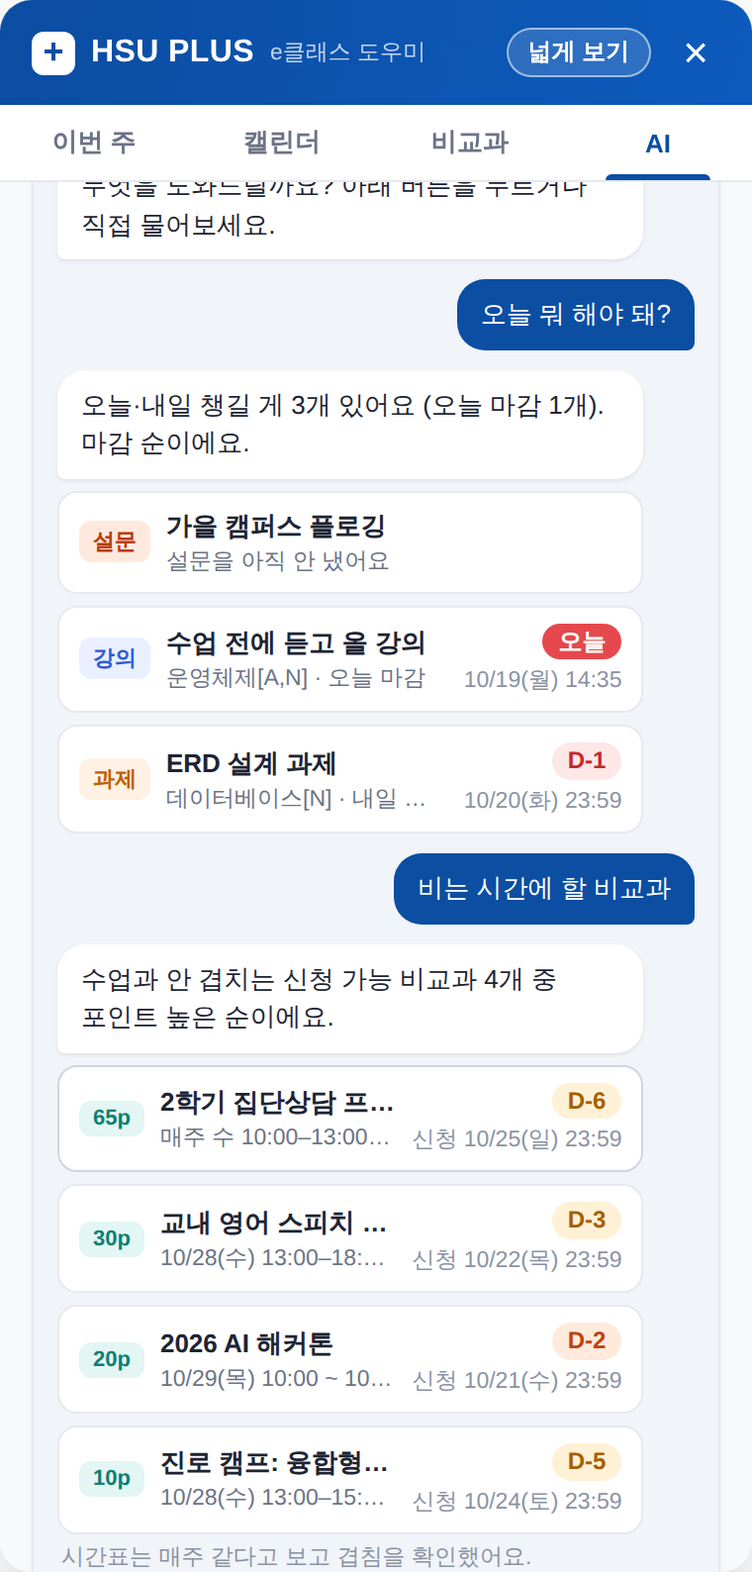
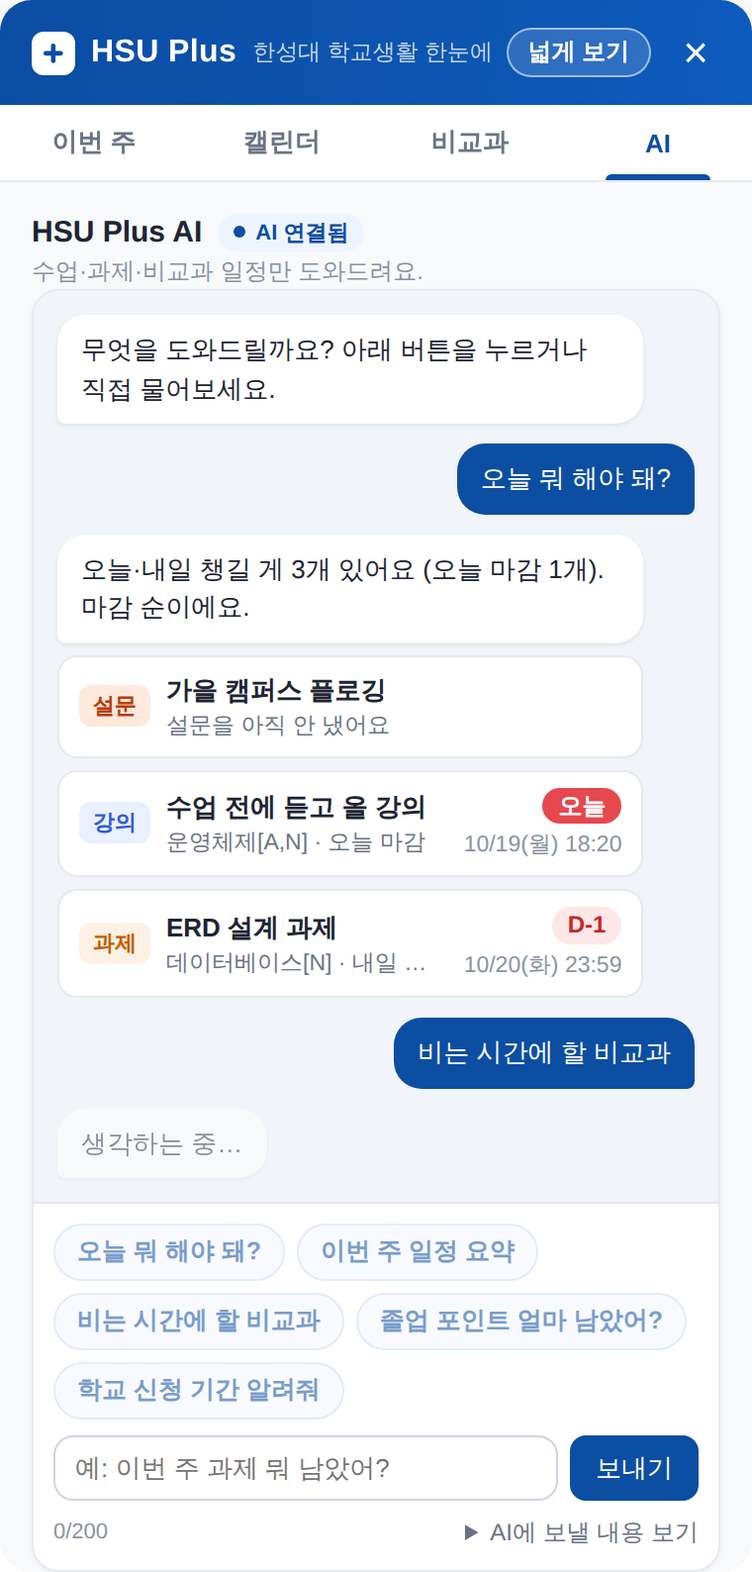
디테일 다듬기: SVG 로고·HSU Plus 머리줄, 캘린더 설명 줄 정리·토일 버튼 위로, 비교과 분류 칩, AI 꼬리표·버튼 답 지연
- 로고 "+"를 SVG로, 머리줄 "HSU Plus · 한성대 학교생활 한눈에", 패널 안 이름 HSU Plus로 통일
- 캘린더: 주간·월간 아래 설명 줄 삭제, 토·일 버튼을 이번 주/다음 주 옆으로(주말 개수 배지), 주간 제목은 날짜만
- 비교과 신청: 빨간 점 삭제, 분류 칩 전체/특강·행사/온라인/과제 제출/프로젝트/상담·개별/장기/기타
- 이번 주 탭 학사 칸: 끄는 스위치·전체 보기 삭제
- AI: 꼬리표만("AI 답변", "AI 답변 · 범위 밖 질문", "기본 답변 · 사유"), 추천 버튼 답은 0.9초 뒤에
- README 그림 8장 새로, DEVLOG

diff --git a/content/main.js b/content/main.js
@@ -21,6 +21,23 @@
   root.appendChild(css);
 
   // 요소 만들기 도우미. 학교 페이지에서 온 글자는 항상 textContent로만 넣는다 (코드 끼워넣기 방지).
+  // 로고 "+": 글자 대신 SVG (글꼴마다 굵기·위치가 달라지지 않게, 10/19 사용자)
+  const SVGNS = "http://www.w3.org/2000/svg";
+  function logoMark(cls = "logo") {
+    const wrap = document.createElement("span");
+    wrap.className = cls;
+    wrap.setAttribute("aria-hidden", "true");
+    const svg = document.createElementNS(SVGNS, "svg");
+    svg.setAttribute("viewBox", "0 0 24 24");
+    svg.setAttribute("focusable", "false");
+    for (const [x, y, w, h] of [[10.25, 4.5, 3.5, 15], [4.5, 10.25, 15, 3.5]]) {
+      const r = document.createElementNS(SVGNS, "rect");
+      for (const [k, v] of Object.entries({ x, y, width: w, height: h, rx: 1.75, fill: "currentColor" })) r.setAttribute(k, v);
+      svg.appendChild(r);
+    }
+    wrap.appendChild(svg);
+    return wrap;
+  }
   const el = (tag, attrs = {}, children = []) => {
     const node = document.createElement(tag);
     for (const [k, v] of Object.entries(attrs)) {
@@ -55,7 +72,7 @@
   function renderDeadNotice() {
     body.replaceChildren(
       el("div", { class: "notice" }, [
-        el("p", { text: "HSU PLUS가 업데이트됐어요." }),
+        el("p", { text: "HSU Plus가 업데이트됐어요." }),
         el("p", { class: "sub", text: "이 페이지를 새로고침하면 다시 동작해요." }),
         el("button", { class: "btn", text: "페이지 새로고침", onclick: () => location.reload() }),
       ])
@@ -120,8 +137,8 @@
   ];
 
   // 디자인: 10/20 시안 A(또렷하게) 선택 — 지금 구조 그대로, 머리줄 로고·그라데이션, 둥근 탭 밑줄, e클래스 바탕 회색
-  const launcher = el("button", { class: "launcher", title: "HSU PLUS 열기" }, [el("span", { class: "logo", text: "+" })]);
-  const panel = el("section", { class: "panel hidden", "aria-label": "HSU PLUS" });
+  const launcher = el("button", { class: "launcher", title: "HSU Plus 열기", "aria-label": "HSU Plus 열기" }, [logoMark()]);
+  const panel = el("section", { class: "panel hidden", "aria-label": "HSU Plus" });
   // 넓게 보기: 어느 탭에서든 쓸 수 있게 파란 머리줄에 둔다
   const wideBtn = el("button", {
     class: "wide-toggle",
@@ -133,7 +150,7 @@
     },
   });
   const header = el("header", {}, [
-    el("div", { class: "brand" }, [el("span", { class: "logo", "aria-hidden": "true", text: "+" }), el("strong", { text: "HSU PLUS" }), el("span", { class: "brand-sub", text: "e클래스 도우미" })]),
+    el("div", { class: "brand" }, [logoMark(), el("strong", { text: "HSU Plus" }), el("span", { class: "brand-sub", text: "한성대 학교생활 한눈에" })]),
     el("div", { class: "head-actions" }, [wideBtn, el("button", { class: "close", text: "×", title: "닫기", onclick: () => toggle(false) })]),
   ]);
   const tabBar = el("nav", { class: "tabs" });
@@ -563,7 +580,7 @@
     const missing = known.filter((r) => r.loggedIn === false).length + (conn && !conn.eclass ? 1 : 0);
     const tip = (t, d) => el("li", {}, [el("b", { text: t }), el("span", { text: d })]);
     return el("div", { class: "welcome" }, [
-      el("div", { class: "wl-head" }, [el("span", { class: "logo", text: "+" }), el("div", {}, [el("b", { text: "HSU PLUS를 시작해요" }), el("p", { text: "e클래스·비교과·종합정보에 흩어진 할 일과 일정을 여기서 한 번에 봐요." })])]),
+      el("div", { class: "wl-head" }, [logoMark(), el("div", {}, [el("b", { text: "HSU Plus를 시작해요" }), el("p", { text: "e클래스·비교과·종합정보에 흩어진 할 일과 일정을 여기서 한 번에 봐요." })])]),
       el("div", { class: "wl-sec", text: "1. 세 사이트에 로그인돼 있는지 확인" }),
       el("div", { class: "wl-sites" }, sites),
       missing
@@ -689,7 +706,8 @@
       ]);
     };
     return el("div", { class: "ac-box" }, [
-      el("div", { class: "ac-head" }, [el("span", { text: "학사 일정" }), el("span", { class: "grow" }), el("a", { href: ACADEMIC_URL, target: "_blank", rel: "noopener", text: "전체 보기" }), acadSwitch("")]),
+      // 이번 주 탭에서는 끄는 스위치·전체 보기 없이 제목만 (10/19 사용자: 여기서 실수로 꺼 버리지 않게. 끄기는 캘린더·설정에서)
+      el("div", { class: "ac-head" }, [el("span", { text: "학사 일정" })]),
       ...list.slice(0, 2).map(row), // 아래 할 일 목록을 너무 밀어내지 않게 2개까지 (나와 상관없는 건 ×로 숨김)
       list.length > 2 ? el("div", { class: "ac-more", text: `그 밖에 ${list.length - 2}개는 캘린더에서` }) : null,
       unhide,
@@ -1052,7 +1070,9 @@
     const monday = weekRange().start;
     monday.setDate(monday.getDate() + 7 * offset);
     const sunday = addDays(monday, 7);
-    const sub = el("div", { class: "cal-sub" }, [el("span", { class: "title", text: `${offset ? "다음 주" : "이번 주"} · ${md(monday)}–${md(addDays(monday, 6))}` }), el("div", { class: "seg-mini-wrap" }, [weekBtn(0, "이번 주"), weekBtn(1, "다음 주")])]);
+    // 토·일 버튼은 위쪽 이번 주/다음 주 옆 (10/19 사용자). 펼칠지는 아래에서 일정을 센 뒤 정해서 여기 붙인다
+    const subTools = el("div", { class: "cal-sub-tools" }, [el("div", { class: "seg-mini-wrap" }, [weekBtn(0, "이번 주"), weekBtn(1, "다음 주")])]);
+    const sub = el("div", { class: "cal-sub" }, [el("span", { class: "title", text: `${md(monday)}–${md(addDays(monday, 6))}` }), subTools]); // "이번 주"는 옆 버튼이 보여 주므로 날짜만
 
     if (!week) return [sub, el("p", { class: "placeholder", text: "불러오는 중…" })];
     const parts = [sub];
@@ -1188,18 +1208,18 @@
 
     if (week.ok && !classes.length && !extra.length) parts.push(el("p", { class: "placeholder", text: offset ? "다음 주 수업·일정이 없어요." : "이번 주 수업·일정이 없어요." }));
     parts.push(grid);
-    parts.push(
-      el("div", { class: "cal-foot" }, [
-        el("span", { class: "tt-legend", text: "흰 칸 내 비교과 · 보라 직접 넣은 일정·매주 반복(알바 등) · 요일을 누르면 그날 목록" }),
-        el("button", {
-        class: "weekend-toggle",
-        text: weekendOpen ? "토·일 접기" : `토·일 펼치기${weekendCount || weekendDues ? ` (${[weekendCount ? `일정 ${weekendCount}` : "", weekendDues ? `마감 ${weekendDues}` : ""].filter(Boolean).join(" · ")})` : ""}`,
+    const weekendN = weekendCount + weekendDues;
+    subTools.appendChild(
+      el("button", {
+        type: "button",
+        class: `seg-mini weekend-btn${weekendOpen ? " active" : ""}`,
+        "aria-pressed": weekendOpen ? "true" : "false",
+        title: weekendOpen ? "토·일 접기" : `토·일 펼치기${weekendN ? ` (${[weekendCount ? `일정 ${weekendCount}` : "", weekendDues ? `마감 ${weekendDues}` : ""].filter(Boolean).join(" · ")})` : ""}`,
         onclick: () => {
           calWeekendOpen = !weekendOpen;
           renderCalendar();
         },
-        }),
-      ])
+      }, [el("span", { text: "토·일" }), !weekendOpen && weekendN ? el("span", { class: "wk-n", text: String(weekendN) }) : null])
     );
     if (calDay) {
       const d = fromYmd(calDay);
@@ -1320,11 +1340,6 @@
       grid.appendChild(week);
     }
     parts.push(grid);
-    parts.push(
-      el("div", { class: "cal-foot" }, [
-        el("span", { class: "tt-legend", text: `수업은 주간에서 · 파랑 내 비교과 · 보라 직접 넣은 일정 · 마감 = 과제·퀴즈·강의${panel.classList.contains("wide") ? "" : " · 이름이 잘리면 날짜를 누르거나 '넓게 보기'"}` }),
-      ])
-    );
     if (calDay) {
       const d = fromYmd(calDay);
       parts.push(dayDetail(calDay, [...allDayOf(d, items.filter((x) => x.allDay)), ...items.filter((x) => !x.allDay && sameDay(x.start, d))]));
@@ -1608,7 +1623,7 @@
   //  ┃ 과목명 · 수강률
   //  ┃ ⏱ [D-4] 10/16(금) 23:55            ⚠ 제출 필요     ← 연회색 아래 띠
   // 왼쪽 라벨 색 = 마감 위험도 5단계(riskTier). 출석이 어려운 강의는 🚨 안내문 + 필요/남은 시간
-  const SVGNS = "http://www.w3.org/2000/svg";
+  // (SVGNS는 맨 위 logoMark 옆에 정의)
   const ICONS = {
     clock: ["M12 21a9 9 0 1 0 0-18 9 9 0 0 0 0 18z", "M12 7.5V12l3 2"],
     warn: ["M10.3 4 2.6 17.5A2 2 0 0 0 4.3 20.5h15.4a2 2 0 0 0 1.7-3L13.7 4a2 2 0 0 0-3.4 0z", "M12 9.5v4", "M12 17h.01"],
@@ -2143,7 +2158,7 @@
       mine: g ? g.surveys.length + g.wait.length + g.progress.length + g.online.length : null,
     };
     const hot = {
-      apply: !!soon?.some((it) => isUrgent(it.due)),
+      apply: false, // 신청 쪽 빨간 점은 뺌 (10/19 사용자: 할 일이 아니라 고르는 목록)
       // 설문을 안 낸 게 있거나, 날짜가 정해진 회차가 이틀 안이면 빨간 점
       mine: !!g && (g.surveys.length > 0 || [...g.wait, ...g.progress].some((p) => exactSessions(p).some((s) => isUrgent(s.start)))),
     };
@@ -2238,14 +2253,29 @@
   // ---------- 신청 탭 ----------
   // 위: 분류 고르기(전체 / 일정 확정 / 온라인 / 제출형 / 상담·개별 / 장기·기타) + "수업과 안 겹치는 것만" + 정렬
   // 카드: 분류 칩, 일정 한 줄, 신청 마감. 회차가 여러 개면 "회차 보기"로 회차마다 시각·포인트·정원·수업 겹침
+  // 신청 탭 분류 (10/19 사용자): 일정 모양이 아니라 "무슨 활동인지"로. 카드의 작은 꼬리표는 그대로 일정 모양(날짜·시각 확정 등)
+  //  한 프로그램은 한 칸에만: 프로젝트(제목) → 상담 → 과제 제출 → 온라인 → 장기 → 특강·행사(날짜가 정해진 것) → 기타
   const PGROUPS = [
     { id: "all", label: "전체" },
-    { id: "fixed", label: "일정 확정", cats: ["exact", "recurring", "date_only"] },
-    { id: "online", label: "온라인", cats: ["online"] },
-    { id: "submission", label: "제출형", cats: ["submission"] },
-    { id: "consult", label: "상담·개별", cats: ["consult"] },
-    { id: "etc", label: "장기·기타", cats: ["long_term", "open"] },
+    { id: "event", label: "특강·행사", tip: "날짜·시각이 정해진 특강·행사·캠프 (매주 하는 것 포함)" },
+    { id: "online", label: "온라인", tip: "기간 안에 온라인으로 수강" },
+    { id: "submission", label: "과제 제출", tip: "마감까지 글·영상·결과물 제출" },
+    { id: "project", label: "프로젝트", tip: "프로젝트·해커톤·공모전·경진대회처럼 결과물을 만드는 활동" },
+    { id: "consult", label: "상담·개별", tip: "신청 뒤 개별로 일정을 잡는 상담·코칭" },
+    { id: "long", label: "장기", tip: "기간 내내 이어지는 활동 (서포터즈·멘토링 등)" },
+    { id: "etc", label: "기타", tip: "세부 일정이 따로 안내되는 것" },
   ];
+  const PROJECT_TITLE = /(프로젝트|project|해커톤|hackathon|공모전|경진대회|챌린지|아이디어\s*대회)/i;
+  function progGroupOf(it, cat) {
+    if (PROJECT_TITLE.test(it.title || "")) return "project";
+    if (!cat) return null;
+    if (cat === "consult") return "consult";
+    if (cat === "submission") return "submission";
+    if (cat === "online") return "online";
+    if (cat === "long_term") return "long";
+    if (["exact", "recurring", "date_only"].includes(cat)) return "event";
+    return "etc";
+  }
   let progGroup = "all";
   let progFree = false; // 수업과 안 겹치는 것만
   let progSort = "due"; // due | point
@@ -2393,10 +2423,7 @@
     if (!programs.ok) return [failCard(programs.error?.message, () => loadPrograms({ force: true }))];
     const now = Date.now();
     const all = programs.data.filter((it) => !it.due || new Date(it.due).getTime() >= now);
-    const groupOf = (it) => {
-      const cat = classOf(it)?.category;
-      return cat ? PGROUPS.find((g) => g.cats?.includes(cat))?.id : null;
-    };
+    const groupOf = (it) => progGroupOf(it, classOf(it)?.category);
     const counts = Object.fromEntries(PGROUPS.map((g) => [g.id, g.id === "all" ? all.length : all.filter((it) => groupOf(it) === g.id).length]));
     let list = progGroup === "all" ? all : all.filter((it) => groupOf(it) === progGroup);
     if (progFree) list = list.filter((it) => applyInfo(it)?.free !== false);
@@ -2408,6 +2435,7 @@
       PGROUPS.map((g) =>
         el("button", {
           class: g.id === progGroup ? "fchip active" : "fchip",
+          title: g.tip || null,
           text: `${g.label} ${counts[g.id]}`,
           onclick: () => {
             progGroup = g.id;
@@ -2479,15 +2507,8 @@
   let aiBusy = false;
   let M_AI = null; // core/ai.js (조사 고치기 등 화면 그릴 때 바로 쓰려고)
   mods.then((m) => (M_AI = m.ai));
-  const AI_FAIL_NOTE = {
-    user: "오늘 AI 질문 횟수를 다 써서 기본 답변으로 보여 드려요. 내일 다시 쓸 수 있어요.",
-    rate: "질문이 너무 빨라요. 잠깐 뒤에 다시 물어봐 주세요. 우선 기본 답변이에요.",
-    global: "오늘 AI 사용량이 많아 기본 답변으로 보여 드려요.",
-    busy: "AI 회사 서버가 잠깐 바빠서 기본 답변으로 보여 드려요. 조금 뒤 다시 물어봐 주세요. (502 · busy)",
-    timeout: "AI 답이 늦어져 기본 답변으로 보여 드려요. 다시 물어봐 주세요. (502 · timeout)",
-    region: "AI 서버가 잠깐 지원 지역 밖에서 실행돼 기본 답변으로 보여 드려요. 다시 물어봐 주세요. (502 · region)",
-    default: "AI 서버에 연결하지 못해 기본 답변으로 보여 드려요.",
-  };
+  // AI가 답하지 못했을 때 꼬리표에 붙일 짧은 사유 (10/19 사용자: 길게 쓰지 말고 "기본 답변 · 사유"만)
+  const AI_FAIL_TAG = { user: "오늘 질문 횟수 다 씀", rate: "질문이 너무 빠름", global: "오늘 사용량 초과", busy: "AI 서버 바쁨", timeout: "응답 지연", region: "일시적 연결 문제", too_large: "보낼 정보가 너무 큼" };
   const chat = []; // { who: "me"|"bot", text, picks?, note? } (이 탭을 연 동안만 기억)
   let aiPreviewOpen = false;
 
@@ -2573,9 +2594,19 @@
     // 직접 쓴 질문 + AI 서버 있음 → 서버에 묻는다 (보내는 건 "AI에 보낼 내용 보기"와 같은 내용)
     if (!presetId && AI_ENDPOINT && ai.clearlyOutOfScope(q)) {
       // 코드·번역·과제 정답 같은 뻔한 범위 밖 질문은 서버에 보내지 않고 바로 안내 (비용 0, 한도도 안 씀)
-      chat.push({ who: "bot", text: ai.OUT_OF_SCOPE, picks: [] });
+      chat.push({ who: "bot", text: ai.OUT_OF_SCOPE, picks: [], tag: "기본 답변 · 범위 밖 질문" });
       while (chat.length > 30) chat.shift();
       return renderAI({ scroll: true });
+    }
+    // 추천 버튼(브라우저 안 기본 답변)은 바로 계산되지만 1초쯤 "생각하는 중…" 뒤에 보여 줌 (10/19 사용자: 즉시 뜨면 어색함)
+    if (presetId) {
+      if (aiBusy) return chat.pop();
+      aiBusy = true;
+      chat.push({ who: "bot", text: "생각하는 중…", pending: true });
+      renderAI({ scroll: true });
+      await new Promise((r) => setTimeout(r, 900));
+      aiBusy = false;
+      chat.pop();
     }
     if (!presetId && AI_ENDPOINT) {
       if (aiBusy) return chat.pop();
@@ -2595,17 +2626,19 @@
         // 10/20 "문장 안에 이름" 모양: 문장 속 {t1}을 진짜 이름·D-day 칩으로 바꿔 그림 (카드 목록은 안 띄움)
         const refs = {};
         for (const p of r.picks || []) if (built.refs.get(p.id)) refs[p.id] = built.refs.get(p.id);
-        chat.push({ who: "bot", text: r.message || (Object.keys(refs).length ? "이걸 먼저 보세요." : "해당하는 항목이 없어요."), refs, ai: true });
+        const refused = r.intent === "out_of_scope";
+        chat.push({ who: "bot", text: r.message || (Object.keys(refs).length ? "이걸 먼저 보세요." : "해당하는 항목이 없어요."), refs, ai: true, tag: refused ? "AI 답변 · 범위 밖 질문" : "AI 답변" });
         while (chat.length > 30) chat.shift();
         return renderAI({ scroll: true });
       }
-      failNote = AI_FAIL_NOTE[r?.reason] || `${AI_FAIL_NOTE.default} (${[r?.status || "연결 안 됨", r?.reason, r?.field].filter(Boolean).join(" · ")})`; // 괄호 안 = 원인 찾기용
+      // 짧은 사유만 꼬리표로. 모르는 원인은 코드(원인 찾기용)
+      failNote = AI_FAIL_TAG[r?.reason] || `연결 실패 (${[r?.status || "연결 안 됨", r?.reason, r?.field].filter(Boolean).join(" · ")})`;
     }
     const a =
       intent === "academic" && !acadOn()
         ? { text: "학사일정 보기를 꺼 두었어요. 캘린더 탭 아래나 '연결 상태 · 설정'의 학사일정 스위치를 켜면 알려 드릴게요.", picks: [] }
         : ai.localAnswer(intent, built, new Date(), { kinds: presetId ? [] : ai.detectKinds(q) });
-    chat.push({ who: "bot", text: a.text, picks: a.picks.map((p) => ({ ...p, ref: built.refs.get(p.id) })).filter((p) => p.ref), note: [failNote, a.note].filter(Boolean).join(" ") || null });
+    chat.push({ who: "bot", text: a.text, picks: a.picks.map((p) => ({ ...p, ref: built.refs.get(p.id) })).filter((p) => p.ref), note: a.note || null, tag: failNote ? `기본 답변 · ${failNote}` : null });
     while (chat.length > 30) chat.shift();
     renderAI({ scroll: true });
   }
@@ -2701,7 +2734,7 @@
     if (current !== "ai") return;
     const loadingAny = eclassLoading || programsLoading || mineLoading || loading;
     const head = el("div", { class: "ai-head" }, [
-      el("div", { class: "ai-title" }, [el("strong", { text: "HSU PLUS AI" }), el("span", { class: `ai-mode${AI_ENDPOINT ? " on" : ""}`, title: AI_ENDPOINT ? "직접 쓴 질문은 AI가 답해요. 아래 버튼은 바로 나오는 기본 답변이에요." : null, text: AI_ENDPOINT ? "AI 연결됨" : "기본 답변 모드" })]),
+      el("div", { class: "ai-title" }, [el("strong", { text: "HSU Plus AI" }), el("span", { class: `ai-mode${AI_ENDPOINT ? " on" : ""}`, title: AI_ENDPOINT ? "직접 쓴 질문은 AI가 답해요. 아래 버튼은 바로 나오는 기본 답변이에요." : null, text: AI_ENDPOINT ? "AI 연결됨" : "기본 답변 모드" })]),
       el("div", { class: "ai-sub", text: loadingAny ? "정보를 불러오는 중이에요…" : "수업·과제·비교과 일정만 도와드려요." }),
     ]);
 
@@ -2712,14 +2745,14 @@
       const parts = [bubble];
       if (m.picks?.length) parts.push(el("div", { class: "ai-picks" }, m.picks.map(pickRow)));
       if (m.note) parts.push(el("div", { class: "ai-note", text: m.note }));
-      if (m.ai) parts.push(el("div", { class: "ai-tag", text: "AI 답변 · 밑줄 이름을 누르면 그 화면으로 · 이름·D-day는 학교 정보 그대로" }));
+      if (m.tag) parts.push(el("div", { class: `ai-tag${/^기본 답변/.test(m.tag) ? " fallback" : ""}`, text: m.tag }));
       log.appendChild(el("div", { class: `msg ${m.who}` }, parts));
     }
 
     const presets = el(
       "div",
       { class: "ai-presets" },
-      PRESET_LIST.map((p) => el("button", { class: "chip", text: p.label, onclick: () => ask(p.label, p.id) }))
+      PRESET_LIST.map((p) => el("button", { class: "chip", text: p.label, disabled: aiBusy ? "" : null, onclick: () => ask(p.label, p.id) }))
     );
     const input = el("input", { class: "ai-input", type: "text", maxlength: "200", placeholder: "예: 이번 주 과제 뭐 남았어?" });
     const counter = el("span", { class: "ai-count", text: "0/200" });
@@ -2817,7 +2850,7 @@
         wipeBtn,
       ]),
       settingsNote,
-      el("p", { class: "set-ver", text: `HSU PLUS ${chrome.runtime.getManifest?.().version || ""} · 학생 제작 프로토타입, 학교 공식 서비스가 아니에요 · 학교 사이트는 읽기만 하고 비밀번호는 저장하지 않아요` }),
+      el("p", { class: "set-ver", text: `HSU Plus ${chrome.runtime.getManifest?.().version || ""} · 학생 제작 프로토타입, 학교 공식 서비스가 아니에요 · 학교 사이트는 읽기만 하고 비밀번호는 저장하지 않아요` }),
     ]),
   ]);
 

diff --git a/content/panel.css b/content/panel.css
@@ -839,3 +839,19 @@ button.ai-pick { width: 100%; font: inherit; text-align: left; cursor: pointer; 
 .ai-ref.k-event .nm { color: var(--ot-ev); }
 .ai-ref .tail { white-space: nowrap; }
 .ai-ref .josa { color: var(--ot-text); font-weight: 400; }
+
+/* ---------- 10/19 디테일 다듬기 ---------- */
+/* 로고 "+" SVG */
+.logo { padding-bottom: 0; font-size: 0; }
+.logo svg { width: 72%; height: 72%; display: block; }
+.launcher .logo svg { width: 74%; height: 74%; }
+.wl-head .logo svg { width: 66%; height: 66%; }
+/* 주간: 토·일 버튼을 이번 주/다음 주 옆에 */
+.cal-sub-tools { display: inline-flex; align-items: center; gap: 6px; flex: none; }
+.weekend-btn { display: inline-flex; align-items: center; gap: 4px; border: 1px solid var(--ot-line); background: #fff; padding: 3px 9px; border-radius: 8px; line-height: 1.5; }
+.weekend-btn:hover { color: var(--ot-text); border-color: #c9d0db; }
+.weekend-btn.active { background: var(--ot-primary); border-color: var(--ot-primary); color: #fff; }
+.weekend-btn .wk-n { min-width: 16px; padding: 0 4px; border-radius: 999px; background: var(--ot-today-bg); color: var(--ot-primary); font-size: 10.5px; font-weight: 800; line-height: 16px; text-align: center; }
+/* AI 꼬리표: 기본 답변으로 대신했을 때는 조금 진하게 */
+.ai-tag.fallback { color: var(--ot-sub); }
+.chip[disabled] { opacity: 0.55; cursor: default; }

diff --git a/worker/src/index.js b/worker/src/index.js
@@ -24,7 +24,7 @@ const LIMITS = {
   maxTasks: 40,
   maxPrograms: 30,
 };
-const OUT_OF_SCOPE_MSG = "HSU PLUS는 수업·과제·비교과 일정만 도와드려요. 아래 버튼으로 물어보세요.";
+const OUT_OF_SCOPE_MSG = "HSU Plus는 수업·과제·비교과 일정만 도와드려요. 아래 버튼으로 물어보세요.";
 
 const memoryStore = new MemoryStore(); // D1이 연결되지 않았을 때(로컬 시험)
 

diff --git a/core/ai.js b/core/ai.js
@@ -21,7 +21,7 @@ export const PRESETS = [
 ];
 
 export const OUT_OF_SCOPE =
-  "HSU PLUS는 수업·과제·비교과 일정만 도와드려요. 아래 버튼으로 물어보세요.";
+  "HSU Plus는 수업·과제·비교과 일정만 도와드려요. 아래 버튼으로 물어보세요.";
 
 /** 질문 정리: 공백 정리 + 글자 수 자르기 */
 export function sanitizeQuestion(q) {

diff --git a/docs/DEVLOG.md b/docs/DEVLOG.md
@@ -263,3 +263,13 @@
   - 남은 실패: 자리 없는 비교과를 지침을 어기고 언급·추천(3건 중 2건 FAIL, "오늘 뭐 해야 돼?"에서도 추천) → 지침이 아니라 구조로 막음: **자리 없는 비교과는 확장이 아예 보내지 않음**(전에도 정원 마감 표시된 건 뺐지만 남은 자리 0도 뺌)
   - "설문 안 낸 거"를 academic으로 분류한 건 화면에 영향 없음 → 채점은 범위 밖 판단이 맞는지만 봄
   - 그 밖에 통과했지만 관찰: "내일 24일까지"처럼 달 없는 날짜·요일 계산은 가끔 틀릴 수 있음(달 없는 숫자는 검사 못 함), 졸업 포인트 질문에 "정확히 계산하기 어렵다"는 불필요한 단서
+
+## 10/19 디테일 다듬기 (사용자 목록)
+- 로고 "+"를 글자 대신 SVG로 (머리줄·여는 버튼·처음 안내)
+- 머리줄 "HSU PLUS · e클래스 도우미" → **"HSU Plus · 한성대 학교생활 한눈에"** (범용 학교생활 도구). 패널 안 보이는 이름도 HSU Plus로 (백업 파일 표시는 예전 파일 호환 때문에 그대로)
+- 캘린더 주간: 아래 설명 줄 삭제, 토·일 버튼을 위쪽 이번 주/다음 주 옆으로(버튼, 주말 일정·마감 개수 배지), 제목은 날짜만(10/19–10/25)
+- 캘린더 월간: 아래 설명 줄 삭제
+- 비교과 신청: "신청" 빨간 점 삭제. 분류 칩을 활동 종류로: 전체 / **특강·행사** / 온라인 / 과제 제출 / 프로젝트 / 상담·개별 / 장기 / 기타 (사용자 안에서 "일정 확정"을 뺐는데 그러면 날짜가 정해진 특강·행사가 갈 곳이 없어 "특강·행사"를 더함. 프로젝트는 제목에 프로젝트·해커톤·공모전·경진대회·챌린지. 칩에 마우스 올리면 설명. 카드 꼬리표는 그대로 일정 모양)
+- 이번 주 탭 학사 일정 칸: 끄는 스위치와 "전체 보기" 삭제 (여기서 실수로 꺼 버리지 않게, 끄기는 캘린더·설정)
+- AI 탭: 답 아래 긴 설명 대신 꼬리표만 — "AI 답변" / "AI 답변 · 범위 밖 질문" / "기본 답변 · 오늘 질문 횟수 다 씀·질문이 너무 빠름·AI 서버 바쁨…" / 모르는 원인은 "기본 답변 · 연결 실패 (코드)". 추천 버튼 답은 0.9초 "생각하는 중…" 뒤에(즉시 뜨면 어색), 그동안 버튼 잠금
+- README 그림 8장 새로 찍음
